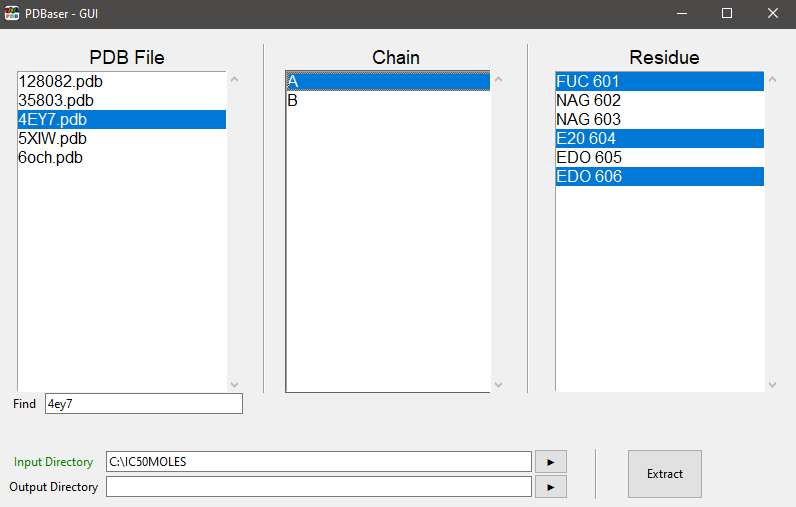
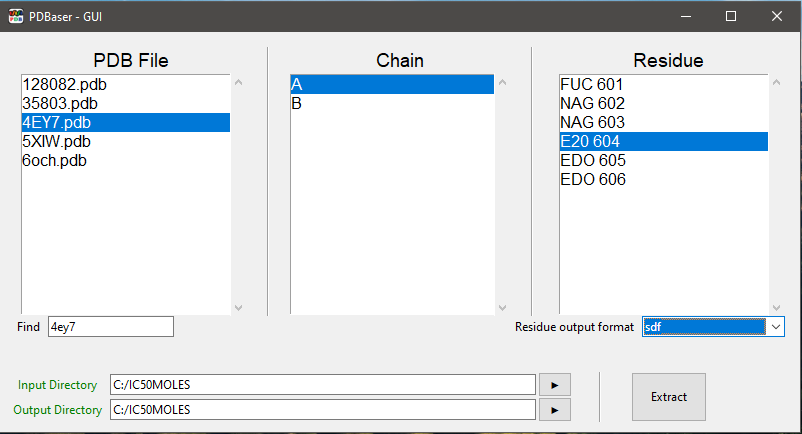
Updated ReadME

Changed region(s): [[0.0, 0.0, 1.0, 1.0], [0.0, 0.7189, 0.3015, 0.8387]]

diff --git a/README.md b/README.md
@@ -8,19 +8,24 @@ PDBaser does this for you !
 
 # What does it do ?
 
-thanks to BioPython, PDBaser reads raw .pdb / .ent files as downloaded from the pdb, extracts pure protein chains and heteroatoms (ligands and others) and removes water molecules, and then saves everything in a directory named as the original filename.
+PDBaser reads raw .pdb and .ent files as downloaded from the pdb, extracts pure protein chains and heteroatoms (ligands and others) and removes water molecules, and then saves everything in a directory named as the original input filename.
 
 
 
 # Requirements
 
-For Windows users, PDBaser has a GUI version, which is the one actively maintained as of now and only requires Microsoft visual C++ 2015 x86, it can be donwloaded from microsoft's website.
+#### Windows
 
-For Linux / MacOS users, PDBaser_GUI.py and it's dependencies will probably run, although i haven't tested myself, for this to work, this program requires Python 3.6.5 or newer, and BioPython and Pygubu installed. 
+For Windows users, PDBaser has a precompiled version, it can be found in the releases category or in the downloads section below, it can be installed on windows 7 SP1 / 8 / 8.1 / 10 and only requires Microsoft visual C++ 2015 x86.
+
+#### Linux / MacOS
+
+PDBaser_GUI.py (from GUI folder) and it's dependencies will probably run, although i haven't tested myself, for this to work, this program requires Python 3.6.5 (And only 3.6.5, other versions will not work with openbabel libraries) and Biopython, Pygubu and openbabel and it's python bindings (Again, 3.6.5) installed.
 
 # Features
 
 - Input / Output Folder selection.
+- Support for the popular residues output formats (pdb, sdf, mol2, smiles)
 - Multiple residue extraction possibility, chain only extraction with no residues is also possible.
 - Search field available.
 
@@ -29,24 +34,26 @@ For Linux / MacOS users, PDBaser_GUI.py and it's dependencies will probably run,
 ### Limitations
 
 - No metadata extraction (Header, info etc ...), only atom 3D poses.
-- No support for different file formats (yet), only .pdb and .ent are supported right now.
+- Only .pdb / .ent inputs are supported, this is done by design as most proteins come only in .pdb and .ent formats, however residue outputs can have different formats
 
 # Downloads
 
-For Windows X86_64 : [Setup](https://github.com/mimminou/PDBASER/releases/download/v1.0/PDBaser_Win_x86_Setup.zip)
+For Windows X86_64 :  [PDBaser_1.2](https://github.com/mimminou/PDBASER/releases/download/1.2/PDBaser_Win_x86_1.2.msi.zip)
 
 
-# Command line
 
-*NOTE :* **command line version probably won't be supported anymore**
 
-for this module to work, you need at least **python 3.6.5** as well as **BioPython**.
+# Command line (Deprecated)
 
-from the date i'm writing this, i've been experiencing some issues regarding BioPython when running python 3.9, therefore i suggest users to download any iteration of python 3.8 instead.
+*NOTE :* **CLI version is a very early release and is now DEPRECATED, and probably won't be supported anymore.**
 
-You can download and install **python** from the official website (3.8.5 recommended).
+for this module to work, you need at least **python 3.6.5** as well as **Biopython**.
 
-**BioPython** can be installed from pip.
+from the date i'm writing this, i've been experiencing some issues regarding Biopython when running python 3.9, therefore i suggest users to download any iteration of python from 3.6.5 to 3.8.5 instead.
+
+You can download and install **python** from the official website (3.6.5 recommended).
+
+**Biopython** can be installed from pip.
 
 
 
@@ -56,7 +63,7 @@ Very straightforward, all you have to do is put this script in the folder contai
 
 For now there exists only 3 commands :
 
-- **SKIP** : command that skips the mentionned step.
+- **SKIP** : command that skips the mentioned step.
 - **Inserting data** : normal usage.
 - **Leaving blank field** : will either default to chain A or extract all residues in the selected chain, depending on where the user left the input blank.
 
